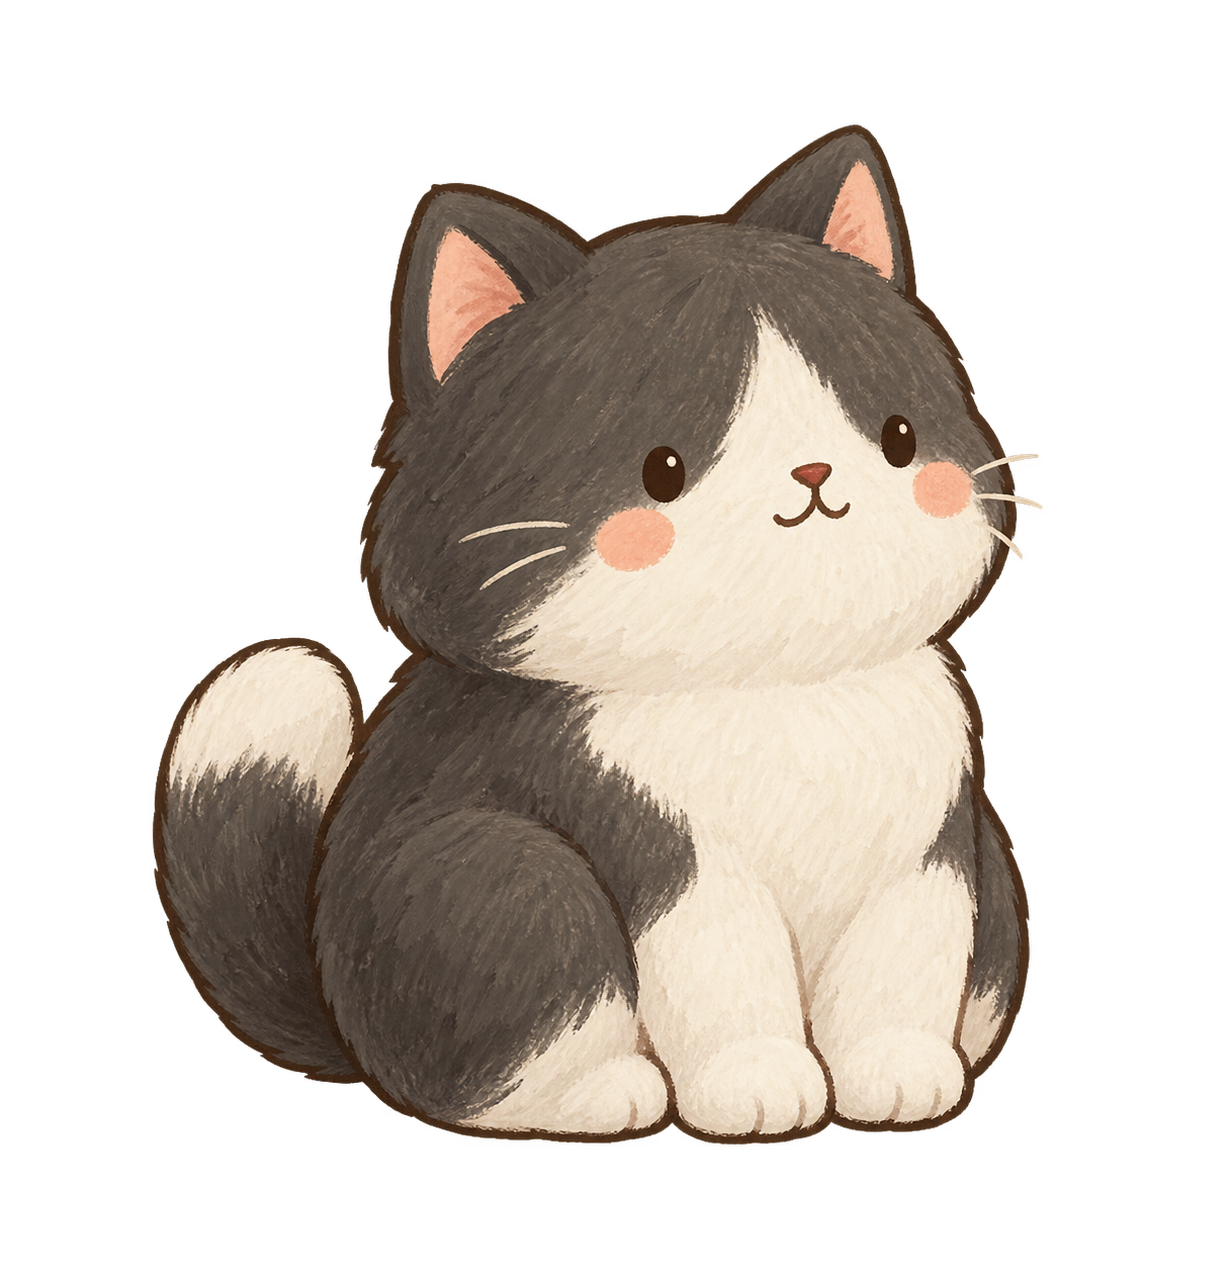
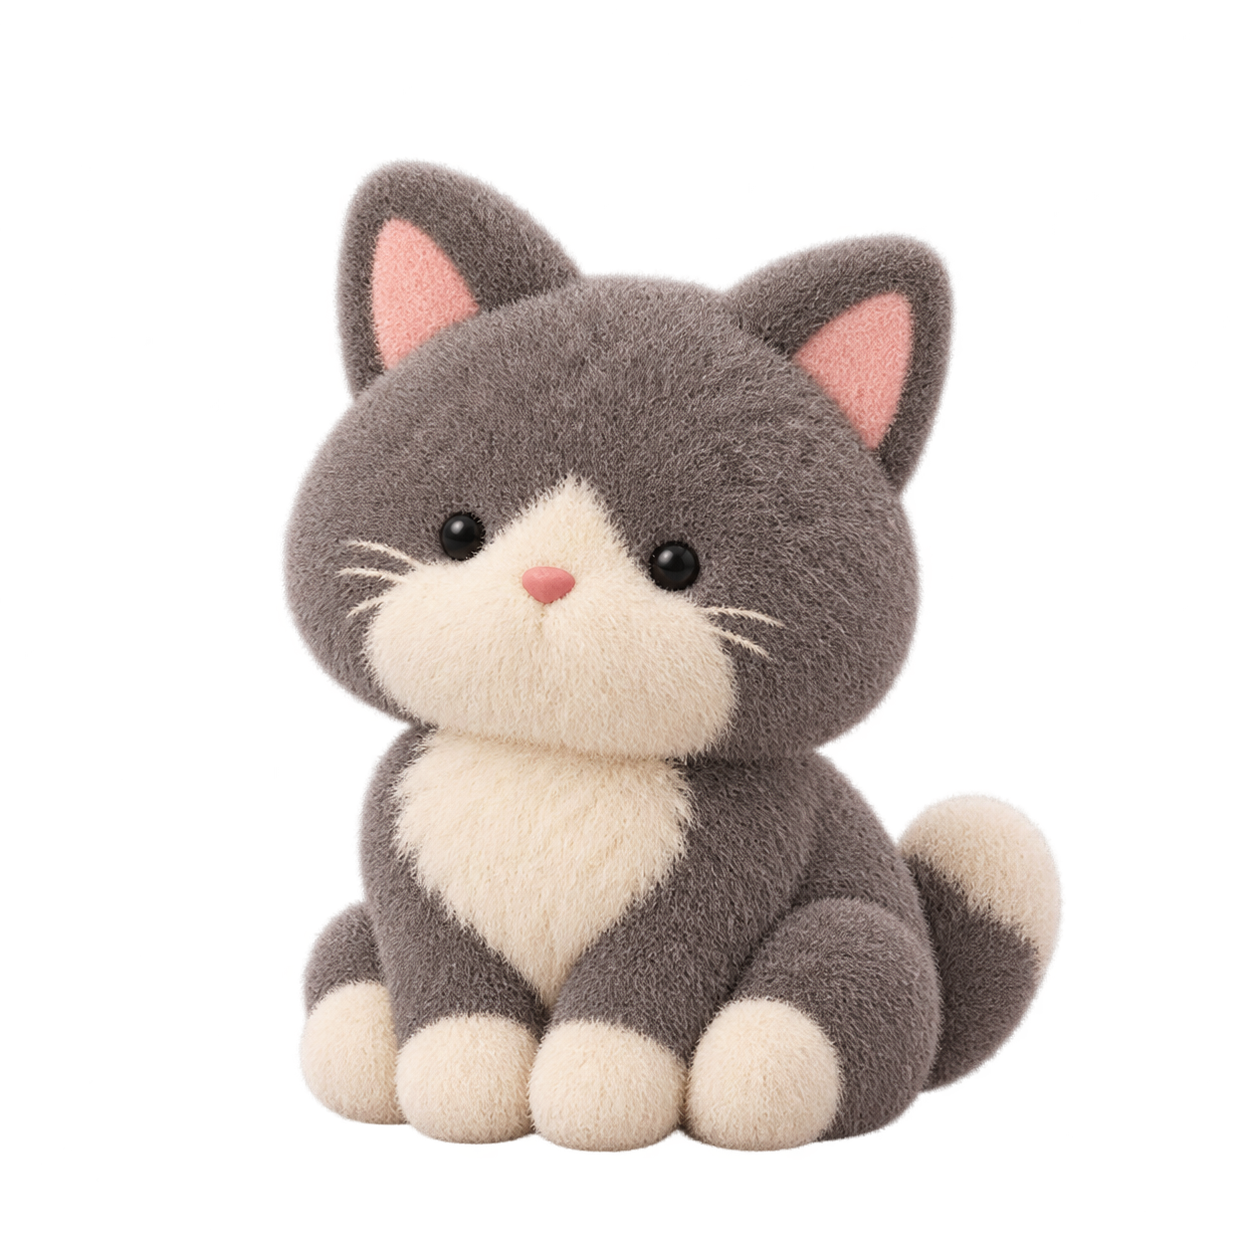
feat(assets): adopt miniature plush character style

diff --git a/assets/illustrated/README.md b/assets/illustrated/README.md
@@ -1,7 +1,7 @@
 # Illustrated pilot assets
 
-This is the first finished visual set for the room redesign: a sunny room, rabbit and cat companions, three reusable shop furniture sprites, and one birthday memory-table sprite. All PNG files are transparent where they are rendered as sprites; the room is a full-scene background.
+This is the first finished visual set for the room redesign: a sunny room, rabbit and cat companions, three reusable shop furniture sprites, and one birthday memory-table sprite. The visual direction is a miniature dollhouse product set: compact rounded geometry, soft plush animal bodies, pale wood and muted pastel materials, and uncluttered isometric presentation. All PNG files are transparent where they are rendered as sprites; the room is a full-scene background.
 
 The catalog remains intentionally mixed during production: `cushion-shell`, `table-round-cookie`, `plant-round-rubber-tree`, and `memory-dining-table-birthday-table` use these finished assets, while the remaining catalog entries resolve through the same manifest with placeholders. This preserves the catalog, room, shop, inventory, and memory-furniture contract while the rest of the art is commissioned or replaced.
 
-Do not imply that placeholder entries are final production artwork. Asset status is surfaced in the development gallery.
+Do not imply that placeholder entries are final production artwork. Asset status is surfaced in the development gallery. New assets should use one clear object, limited materials, a simple silhouette, and no readable labels or decorative clutter.

diff --git a/docs/decisions.md b/docs/decisions.md
@@ -292,3 +292,15 @@
 - 비용: workflow source를 추가한 것만으로 원격 schema가 적용되지는 않는다. 관리자가
   secrets 설정과 명시적 dispatch를 완료한 뒤, 실제 migration history와 다계정 E2E를 따로
   확인해야 한다.
+
+## D-031 미니어처 인형·가구 에셋 톤
+
+- 상태: 채택
+- 결정: 동물은 둥근 봉제 인형/펠트 질감의 소형 collectible, 가구는 따뜻한 옅은 목재와
+  크림·파우더 블루를 쓰는 미니어처 dollhouse 제품으로 표현한다. 모든 신규 에셋은
+  아이소메트릭에 가까운 3/4 시점, 단일 명확한 기능, 제한된 소품과 단순한 실루엣을 지킨다.
+  이름·개인 포인트 색상은 PNG 안이 아니라 UI에서 제공한다.
+- 이유: 과한 장식·광택·서사적 소품이 섞인 생성형 일러스트 인상을 피하고, 실제 작은
+  방 모형처럼 일관된 스케일·재질·가독성을 유지하기 위해서다.
+- 비용: 털·목재 표현은 촉감만 전달하는 수준으로 제한하며, 개별 에셋의 스타일 변형은
+  먼저 파일럿 방 화면에서 확인한 뒤 확대한다.

diff --git a/docs/progress.md b/docs/progress.md
@@ -200,7 +200,8 @@ Build를 설치한 실제 기기에서 별도로 기록한다.
 ## 에셋 현황
 
 - 방: 햇살 창가 방 일러스트 1종 연결 완료
-- 동물: 토끼·고양이 본체 일러스트 연결 완료, 나머지 종과 본체 애니메이션은 제작 전
+- 동물: 토끼·고양이 본체를 미니어처 봉제 인형 스타일로 교체 완료, 나머지 종과 본체
+  애니메이션은 제작 전
 - 상점 아이템 40종: 카탈로그·렌더 메타데이터 완료, 쿠션·탁자·고무나무 3종은 완성 일러스트, 나머지는 placeholder
 - 추억 가구 15종: 카탈로그·렌더 메타데이터 완료, 생일 식탁 1종은 완성 일러스트,
   나머지는 placeholder
